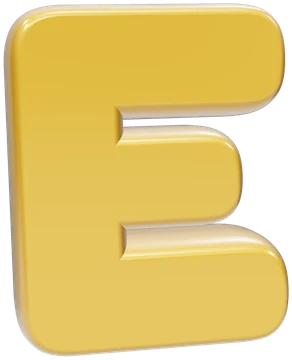
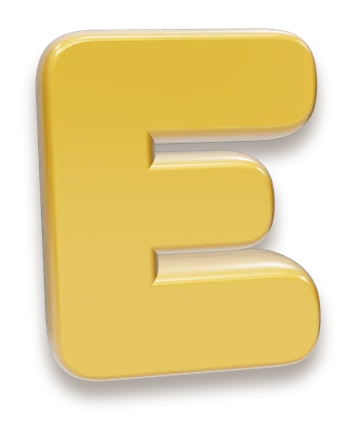
Perf : ombre des lettres cuite dans l'image, couche graphique par lettre, version téléphone
Le filtre drop-shadow recalculé à chaque image de l'animation coûtait 3 s de travail sur téléphone.
Les lettres ont maintenant une version de 150 px de haut pour les petits écrans (srcset).

Claude-Session: https://claude.ai/code/session_01ENEjv6HRpKHHDi8H6GxpkE

diff --git a/index.html b/index.html
@@ -66,8 +66,8 @@
     <h1 class="sr" data-en="Chez Bobette, neighbourhood laundromat in Plateau-Mont-Royal">Chez Bobette, buanderie de quartier du Plateau-Mont-Royal</h1>
     <!-- L'enseigne : onze lettres ballons suspendues, une image par lettre (outils/preparer_lettres.py). js/mur.js les fait se balancer. -->
     <div class="guirlande" id="guirlande" aria-hidden="true">
-      <div class="mot"><span class="lettre"><img src="assets/img/lettres/l00.webp" width="318" height="360" alt="" fetchpriority="high" decoding="async"></span><span class="lettre"><img src="assets/img/lettres/l01.webp" width="313" height="360" alt="" fetchpriority="high" decoding="async"></span><span class="lettre"><img src="assets/img/lettres/l02.webp" width="292" height="360" alt="" fetchpriority="high" decoding="async"></span><span class="lettre"><img src="assets/img/lettres/l03.webp" width="296" height="360" alt="" fetchpriority="high" decoding="async"></span></div>
-      <div class="mot"><span class="lettre"><img src="assets/img/lettres/l04.webp" width="297" height="360" alt="" fetchpriority="high" decoding="async"></span><span class="lettre"><img src="assets/img/lettres/l05.webp" width="348" height="360" alt="" fetchpriority="high" decoding="async"></span><span class="lettre"><img src="assets/img/lettres/l06.webp" width="297" height="360" alt="" fetchpriority="high" decoding="async"></span><span class="lettre"><img src="assets/img/lettres/l07.webp" width="294" height="360" alt="" fetchpriority="high" decoding="async"></span><span class="lettre"><img src="assets/img/lettres/l08.webp" width="322" height="360" alt="" fetchpriority="high" decoding="async"></span><span class="lettre"><img src="assets/img/lettres/l09.webp" width="320" height="360" alt="" fetchpriority="high" decoding="async"></span><span class="lettre"><img src="assets/img/lettres/l10.webp" width="294" height="360" alt="" fetchpriority="high" decoding="async"></span></div>
+      <div class="mot"><span class="lettre"><img src="assets/img/lettres/l00.webp" srcset="assets/img/lettres/l00-m.webp 160w, assets/img/lettres/l00.webp 382w" sizes="(max-width:639px) 17vw, (max-width:899px) 11vw, 190px" width="382" height="424" alt="" fetchpriority="high" decoding="async"></span><span class="lettre"><img src="assets/img/lettres/l01.webp" srcset="assets/img/lettres/l01-m.webp 158w, assets/img/lettres/l01.webp 377w" sizes="(max-width:639px) 17vw, (max-width:899px) 11vw, 190px" width="377" height="424" alt="" fetchpriority="high" decoding="async"></span><span class="lettre"><img src="assets/img/lettres/l02.webp" srcset="assets/img/lettres/l02-m.webp 150w, assets/img/lettres/l02.webp 356w" sizes="(max-width:639px) 17vw, (max-width:899px) 11vw, 190px" width="356" height="424" alt="" fetchpriority="high" decoding="async"></span><span class="lettre"><img src="assets/img/lettres/l03.webp" srcset="assets/img/lettres/l03-m.webp 151w, assets/img/lettres/l03.webp 360w" sizes="(max-width:639px) 17vw, (max-width:899px) 11vw, 190px" width="360" height="424" alt="" fetchpriority="high" decoding="async"></span></div>
+      <div class="mot"><span class="lettre"><img src="assets/img/lettres/l04.webp" srcset="assets/img/lettres/l04-m.webp 152w, assets/img/lettres/l04.webp 361w" sizes="(max-width:639px) 17vw, (max-width:899px) 11vw, 190px" width="361" height="424" alt="" fetchpriority="high" decoding="async"></span><span class="lettre"><img src="assets/img/lettres/l05.webp" srcset="assets/img/lettres/l05-m.webp 173w, assets/img/lettres/l05.webp 412w" sizes="(max-width:639px) 17vw, (max-width:899px) 11vw, 190px" width="412" height="424" alt="" fetchpriority="high" decoding="async"></span><span class="lettre"><img src="assets/img/lettres/l06.webp" srcset="assets/img/lettres/l06-m.webp 152w, assets/img/lettres/l06.webp 361w" sizes="(max-width:639px) 17vw, (max-width:899px) 11vw, 190px" width="361" height="424" alt="" fetchpriority="high" decoding="async"></span><span class="lettre"><img src="assets/img/lettres/l07.webp" srcset="assets/img/lettres/l07-m.webp 150w, assets/img/lettres/l07.webp 358w" sizes="(max-width:639px) 17vw, (max-width:899px) 11vw, 190px" width="358" height="424" alt="" fetchpriority="high" decoding="async"></span><span class="lettre"><img src="assets/img/lettres/l08.webp" srcset="assets/img/lettres/l08-m.webp 162w, assets/img/lettres/l08.webp 386w" sizes="(max-width:639px) 17vw, (max-width:899px) 11vw, 190px" width="386" height="424" alt="" fetchpriority="high" decoding="async"></span><span class="lettre"><img src="assets/img/lettres/l09.webp" srcset="assets/img/lettres/l09-m.webp 161w, assets/img/lettres/l09.webp 384w" sizes="(max-width:639px) 17vw, (max-width:899px) 11vw, 190px" width="384" height="424" alt="" fetchpriority="high" decoding="async"></span><span class="lettre"><img src="assets/img/lettres/l10.webp" srcset="assets/img/lettres/l10-m.webp 151w, assets/img/lettres/l10.webp 358w" sizes="(max-width:639px) 17vw, (max-width:899px) 11vw, 190px" width="358" height="424" alt="" fetchpriority="high" decoding="async"></span></div>
     </div>
     <button class="langue" type="button" lang="en" aria-label="Switch to English">EN</button>
     <div class="plaque enseigne" data-etat="ouvert">

diff --git a/styles/accueil.css b/styles/accueil.css
@@ -19,14 +19,14 @@ body{padding-bottom:calc(var(--barre) + env(safe-area-inset-bottom))}
 .guirlande{--h:calc((100vw - 2*var(--marge))/6.4);grid-column:1/-1;display:grid;gap:0;justify-items:start;pointer-events:none}
 .mot{display:flex}
 .mot+.mot{margin-top:2px}
-.lettre{position:relative;padding-top:16px;transform-origin:50% 0;pointer-events:auto;animation:balance 3.6s ease-in-out infinite alternate}
+.lettre{position:relative;padding-top:16px;transform-origin:50% 0;pointer-events:auto;will-change:transform;animation:balance 3.6s ease-in-out infinite alternate}
 .lettre:nth-child(2n){animation-duration:4.3s;animation-delay:-1.2s}
 .lettre:nth-child(3n){animation-duration:3.1s;animation-delay:-2.1s}
 /* la ficelle et son bout de ruban */
 .lettre::before{content:"";position:absolute;top:0;left:50%;width:2px;height:24px;margin-left:-1px;background:#4a3a2c}
 .lettre::after{content:"";position:absolute;top:-5px;left:50%;width:28px;height:12px;margin-left:-14px;background:rgba(240,230,190,.9);box-shadow:0 1px 2px rgba(0,0,0,.2);transform:rotate(-6deg)}
 .lettre:nth-child(even)::after{transform:rotate(5deg)}
-.lettre img{position:relative;width:auto;height:var(--h);max-width:none;filter:drop-shadow(0 9px 7px rgba(40,20,0,.38));user-select:none;-webkit-user-drag:none}
+.lettre img{position:relative;width:auto;height:calc(var(--h)*1.18);margin:calc(var(--h)*-.09);max-width:none;user-select:none;-webkit-user-drag:none}
 @keyframes balance{from{transform:rotate(-2.4deg)}to{transform:rotate(2.4deg)}}
 .hero>.langue{position:absolute;top:12px;right:var(--marge);z-index:2}
 
